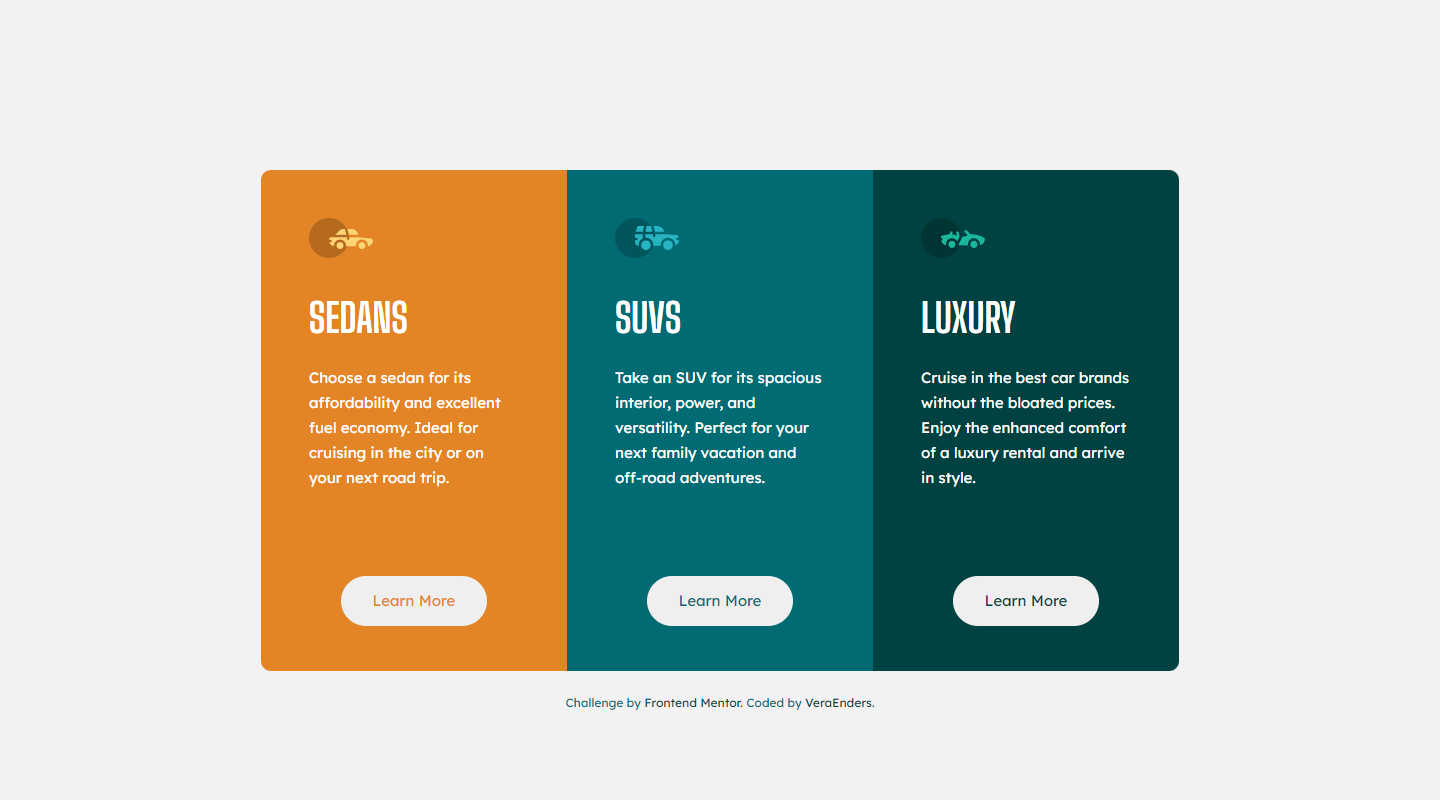
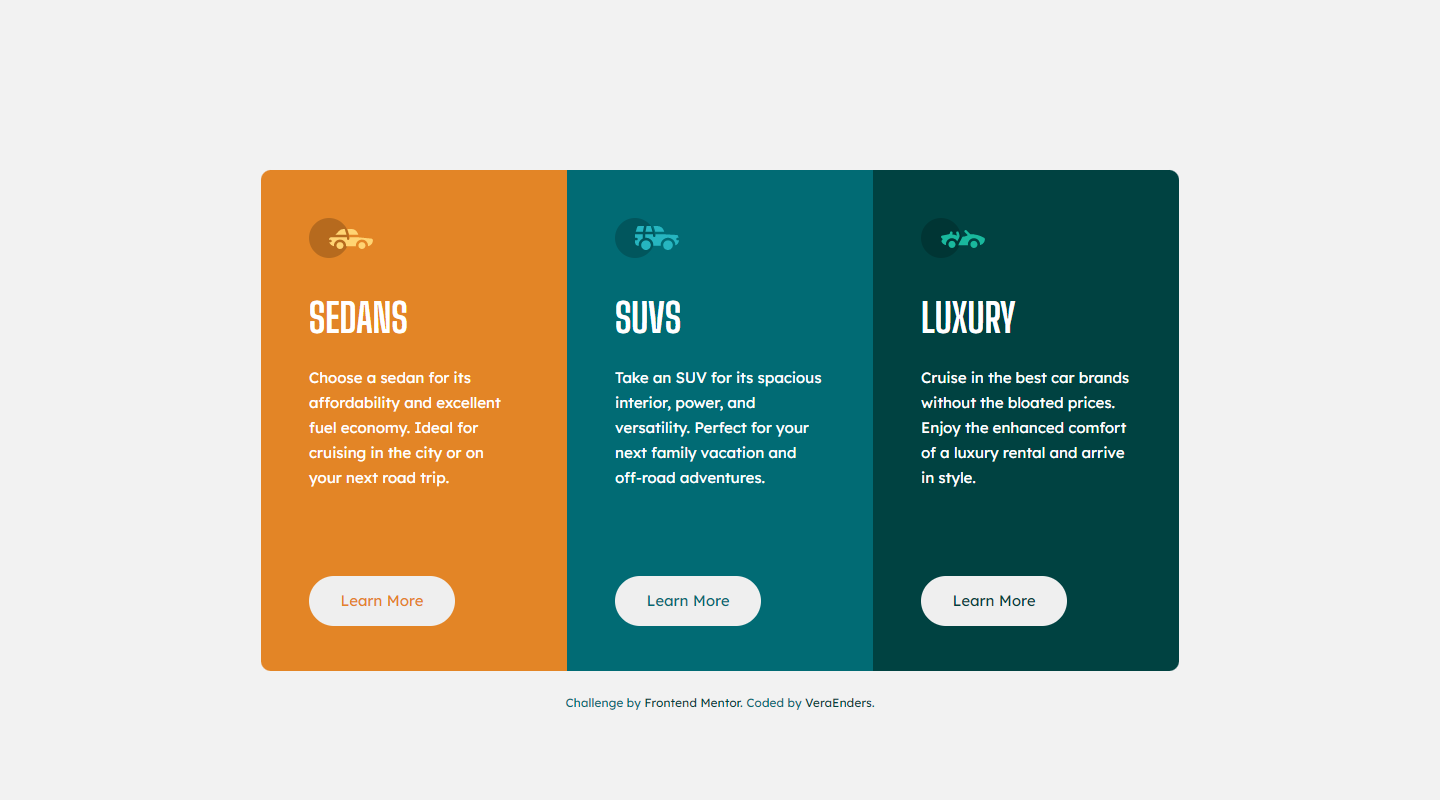
fix: align buttons to the left

Changed region(s): [[0.625, 0.7188, 0.7812, 0.7812], [0.4062, 0.7188, 0.5625, 0.7812], [0.2188, 0.7188, 0.3438, 0.7812]]

diff --git a/src/styles/style.css b/src/styles/style.css
@@ -137,10 +137,4 @@ h2 {
   color: hsl(0deg, 0%, 100%);
 }
 
-@media (min-width: 1000px) {
-  .btn__container {
-    text-align: center;
-  }
-}
-
 /*# sourceMappingURL=style.css.map */

diff --git a/src/styles/components/_button.scss b/src/styles/components/_button.scss
@@ -12,9 +12,3 @@
     color: clr(neutral, light);
   }
 }
-
-.btn__container {
-  @include mq-large {
-    text-align: center;
-  }
-}
